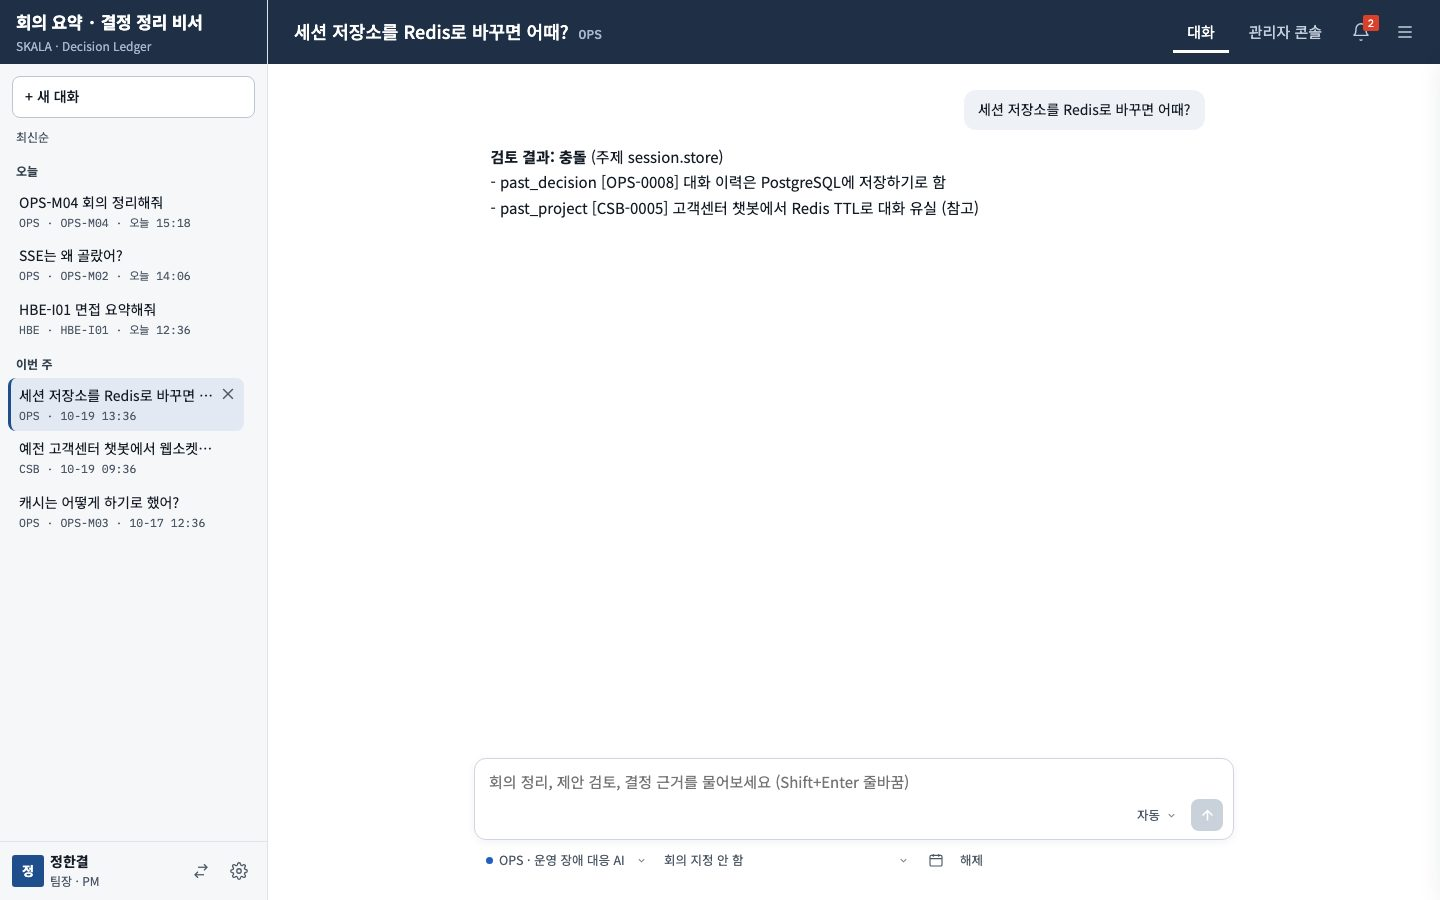
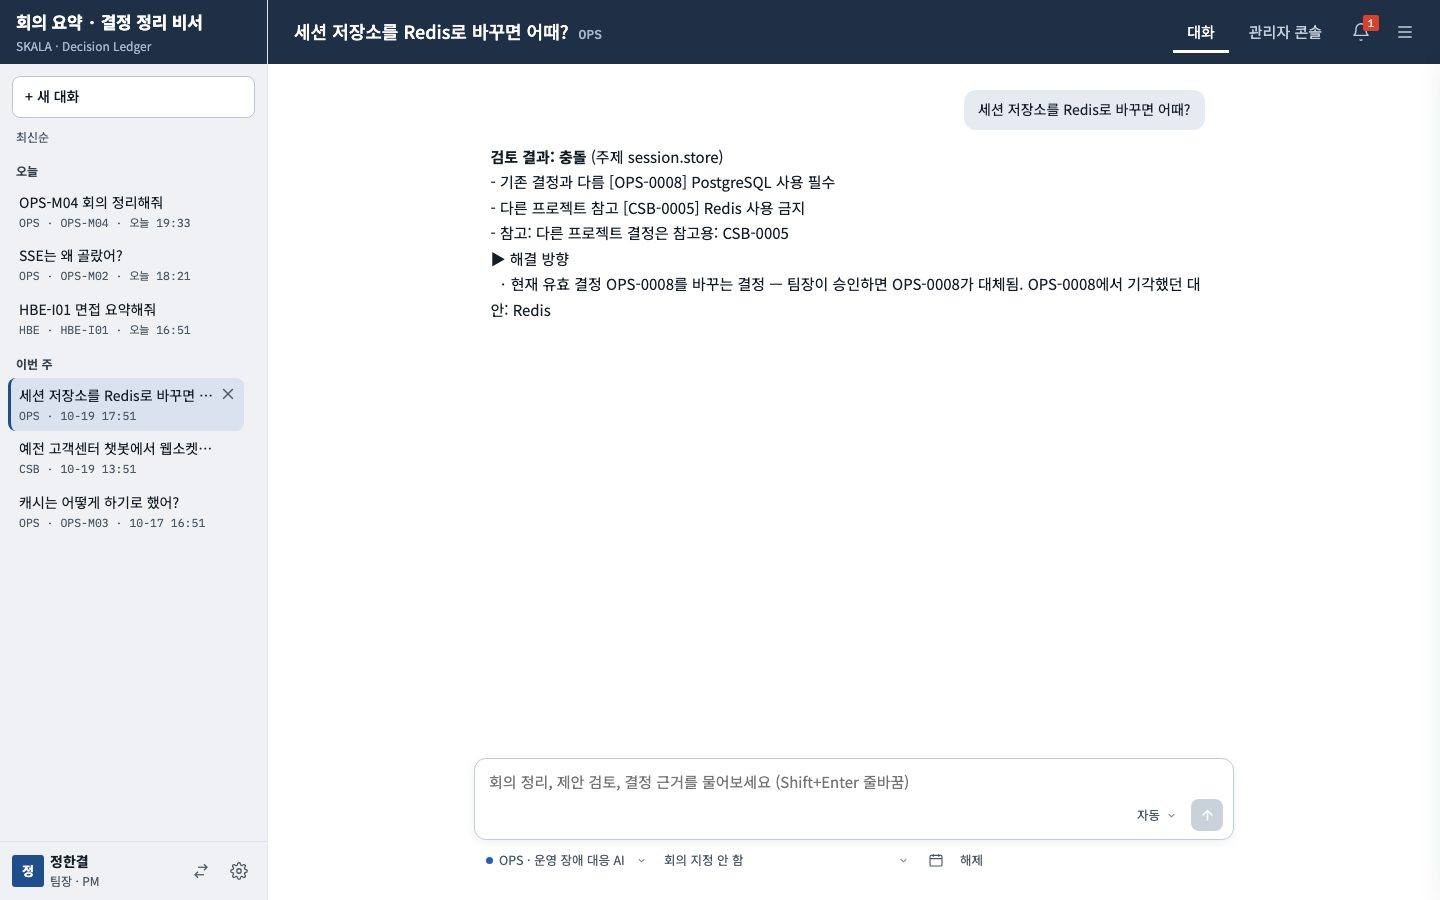
시연 목업을 새 형식의 실제 출력으로 교체(캐시 이어 묻기 포함), 의견 검토 충돌 종류 한글 표시, README 실행 화면 갱신

Changed region(s): [[0.3438, 0.1867, 0.8438, 0.3733]]

diff --git a/agent/ledger_graph.py b/agent/ledger_graph.py
@@ -1278,7 +1278,7 @@ def render_opinion(item: dict) -> str:
     verdict = ("예외 범위 안에서 가능" if r.get("waiver_applied") and not blocking
                else STATUS_KO.get(r["status"], r["status"]))
     rows = [f"**검토 결과: {verdict}** (주제 {item['topic']})"]
-    rows += [f"- {c['type']} [{', '.join(c['against'])}] {c['detail']}" for c in r["conflicts"]]
+    rows += [f"- {enrich.CONFLICT_KO.get(c['type'], c['type'])} [{', '.join(c['against'])}] {c['detail']}" for c in r["conflicts"]]
     if r.get("waiver_applied"):
         rows.append(f"- 적용 가능한 예외: {r['waiver_applied']}")
     rows += [f"- 참고: {n}" for n in r.get("notes", [])]

diff --git a/README.md b/README.md
@@ -274,9 +274,17 @@ Ollama가 느린 맥북은 `.env`에 `LLM_BACKEND=openai`와 본인 `OPENAI_API_
 |---|---|
 | ![](docs/images/home.jpg) | ![](docs/images/scope_menu.jpg) |
 
-| 의견 검토 — 과거 결정·과거 프로젝트와 충돌 | 근거 질의 — 결정·이유·기각 대안·원문 |
+| 회의 정리 — 상태 라벨·해결 방향·눈여겨볼 점 | 근거 질의 [승인 대기] + 이전 미결 → "이거 누가 승인했어?" (표 조회) |
 |---|---|
-| ![](docs/images/opinion_question.jpg) | ![](docs/images/question_answer.jpg) |
+| ![](docs/images/m04_report.jpg) | ![](docs/images/question_answer.jpg) |
+
+| 근거 질의 [확정] — 이유·기각 대안·원문·사안의 흐름 | 의견 검토 — 충돌과 해결 방향 |
+|---|---|
+| ![](docs/images/sse_flow.jpg) | ![](docs/images/opinion_question.jpg) |
+
+| 승인함 — 원문 인용·승인 전 수정·대체될 결정 미리보기 | 미결함 — 경과일·후속 할 일·닫기 |
+|---|---|
+| ![](docs/images/admin_approve.jpg) | ![](docs/images/open_items.jpg) |
 
 | 면접 전사문 — 질문·답변 요약, 공정성 점검 | 일정 달력 — 회의 상세 |
 |---|---|
@@ -286,9 +294,9 @@ Ollama가 느린 맥북은 `.env`에 `LLM_BACKEND=openai`와 본인 `OPENAI_API_
 |---|---|---|
 | ![](docs/images/schedule_add.jpg) | ![](docs/images/schedule_conflict.jpg) | ![](docs/images/schedule_calendar.jpg) |
 
-| 관리자 콘솔 — 결정·의견 승인 | 관리자 콘솔 — 열람 요청 (범위·기간) |
+| 관리자 콘솔 — 열람 요청 (범위·기간) | |
 |---|---|
-| ![](docs/images/admin_approve.jpg) | ![](docs/images/admin_requests.jpg) |
+| ![](docs/images/admin_requests.jpg) | |
 
 | 회의 접근 권한 (역할별) | 팀장 알림 |
 |---|---|
